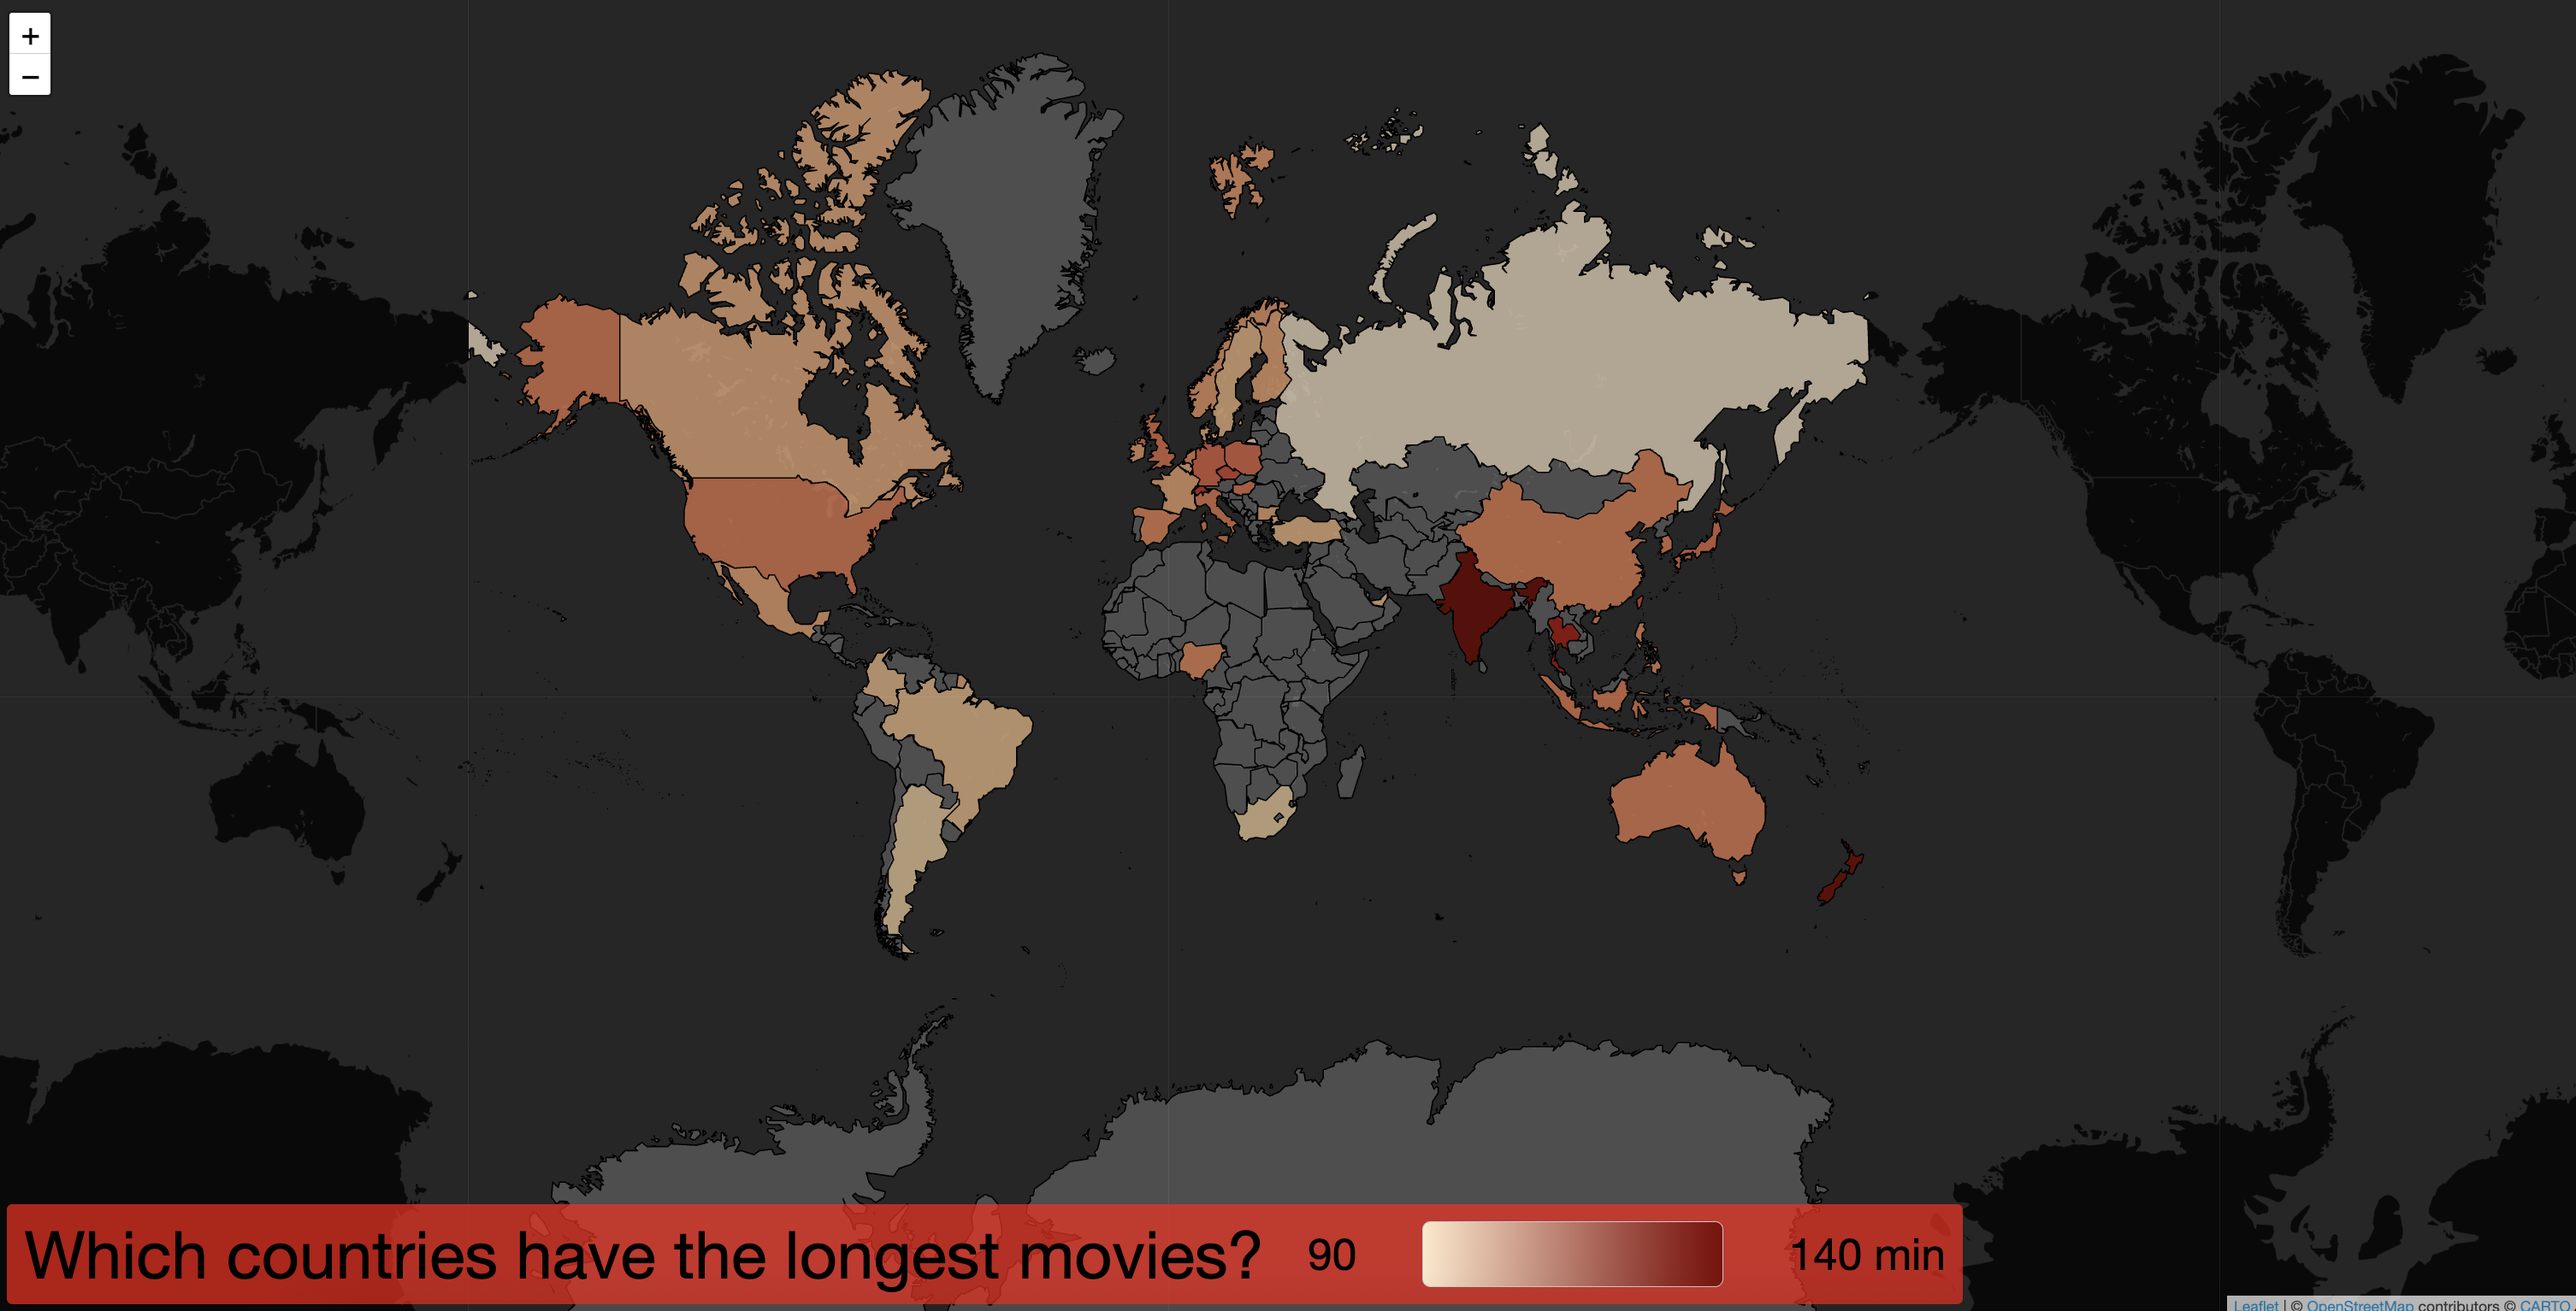
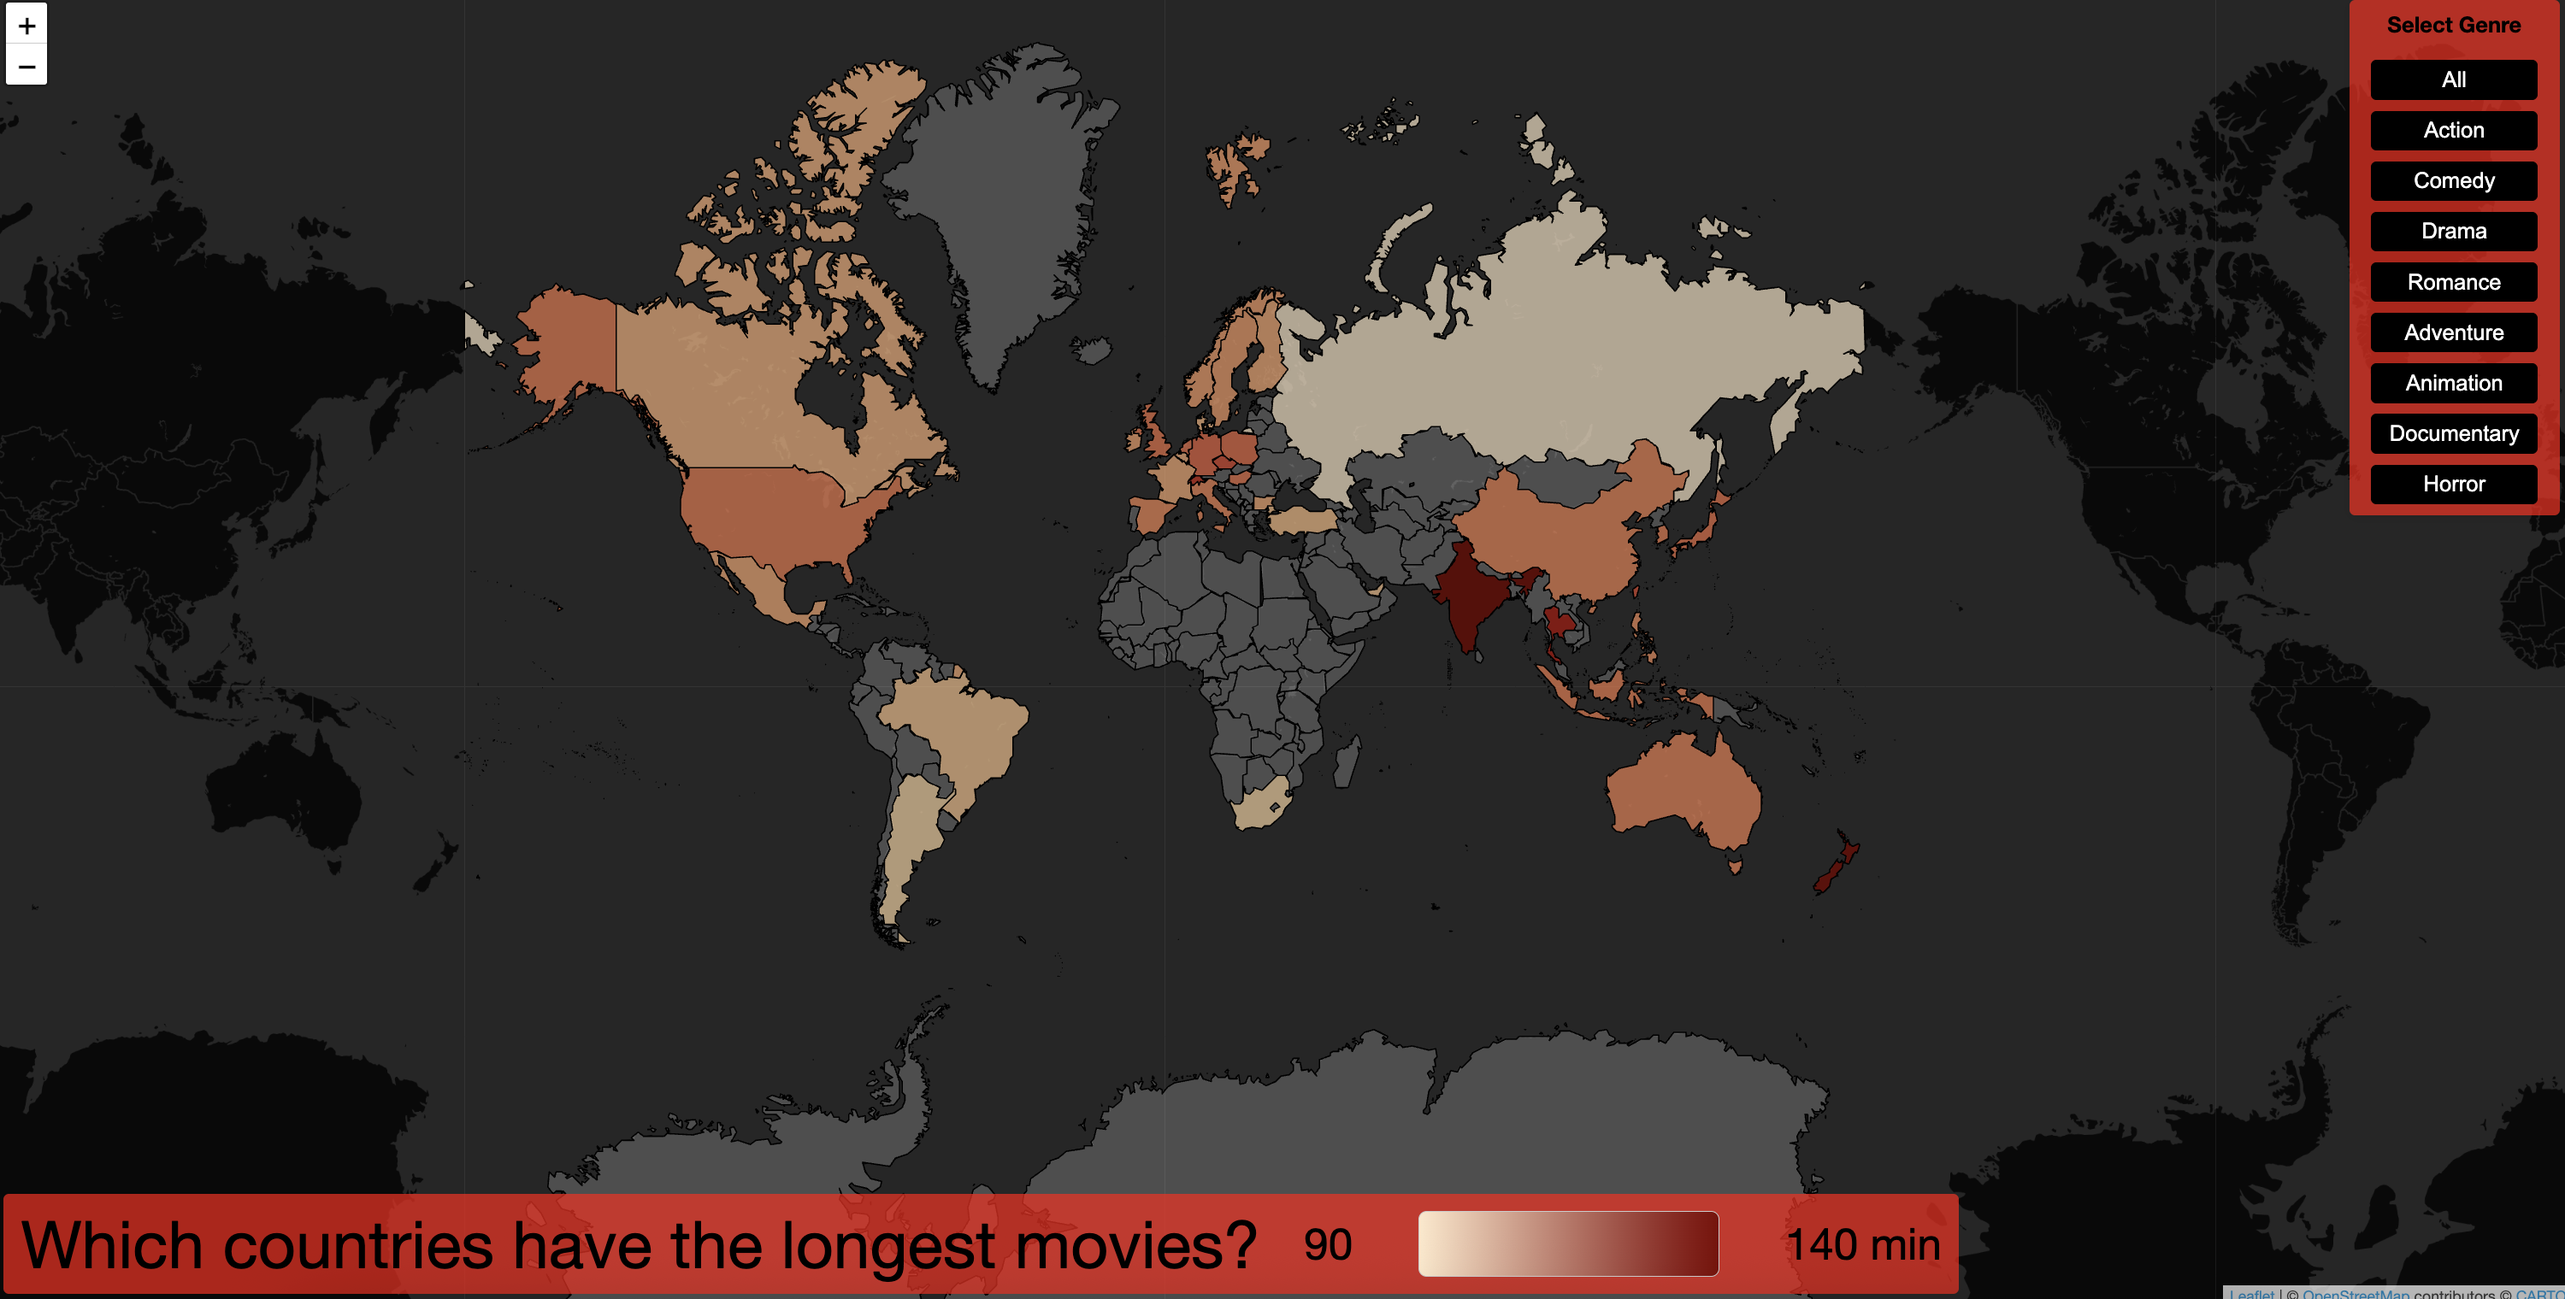
added genre functionality and updated readme

diff --git a/app_copy.js b/app_copy.js
@@ -8,10 +8,86 @@ const moviesData = await d3.csv('Data/NetflixMovies_production_cleaned.csv')
 
 console.log(`Loaded ${moviesData.length} movies`)
 
+// --- Genre Filter UI ---
+const GENRES = [
+    "All", "Action", "Comedy", "Drama", "Romance",
+    "Adventure", "Animation", "Documentary", "Horror"
+]
+let selectedGenres = new Set(GENRES.slice(1)) // All except "All" by default
+
+function createGenreFilters() {
+    let container = document.getElementById('genre-filters')
+    if (!container) {
+        container = document.createElement('div')
+        container.id = 'genre-filters'
+        container.style.position = 'absolute'
+        container.style.top = '10px'
+        container.style.right = '10px'
+        container.style.zIndex = 1100
+        container.style.background = 'rgba(255, 1, 1, 0.718)'
+        container.style.padding = '0.5em 1em'
+        container.style.borderRadius = '4px'
+        container.style.boxShadow = '0 2px 8px rgba(0,0,0,0.08)'
+        container.style.display = 'flex'
+        container.style.flexDirection = 'column'
+        container.style.gap = '0.5em'
+        document.body.appendChild(container)
+    }
+    container.innerHTML = `
+        <div class="genre-label">Select Genre</div>
+        ${GENRES.map(genre =>
+            `<button class="genre-btn${selectedGenres.has(genre) || (genre === "All" && selectedGenres.size === 8) ? ' active' : ''}" data-genre="${genre}">${genre}</button>`
+        ).join('')}
+    `
+    // Button click handler
+    container.querySelectorAll('.genre-btn').forEach(btn => {
+        btn.onclick = function() {
+            const genre = btn.getAttribute('data-genre')
+            if (genre === "All") {
+                selectedGenres = new Set(GENRES.slice(1))
+            } else {
+                selectedGenres = new Set([genre])
+            }
+            createGenreFilters() // update button states
+            renderMap()
+        }
+    })
+}
+
+// Add CSS for active/inactive genre buttons
+if (!document.getElementById('genre-btn-style')) {
+    const style = document.createElement('style')
+    style.id = 'genre-btn-style'
+    style.innerHTML = `
+        #genre-filters .genre-btn {
+            border: 1px solid #aaa;
+            background: #f7f7f7;
+            color: #333;
+            border-radius: 4px;
+            padding: 0.3em 0.8em;
+            font-size: 1em;
+            cursor: pointer;
+            transition: background 0.15s, color 0.15s;
+        }
+        #genre-filters .genre-btn.active {
+            background: #000;
+            color: #fff;
+            border-color: #000;
+        }
+    `
+    document.head.appendChild(style)
+}
+
+createGenreFilters()
+
 // Group movies by country and compute mean RuntimeMinutes
 function groupByCountryFromCSV(data) {
     const map = new Map()
     data.forEach(item => {
+        // Filter by selected genres
+        const genres = (item.genres || '').split(',').map(g => g.trim())
+        if (!genres.some(g => selectedGenres.has(g))) return
+
         let countries = []
         try {
             const arr = JSON.parse(item.productionCountries.replace(/'/g, '"'))
@@ -25,7 +101,7 @@ function groupByCountryFromCSV(data) {
         countries.forEach(country => {
             if (!map.has(country)) map.set(country, [])
             map.get(country).push({
-                title: item.searched || item.Title || item.name, // Use "searched" column
+                title: item.searched || item.Title || item.name,
                 runtime: Number(item.RuntimeMinutes) || 0
             })
         })

diff --git a/index.html b/index.html
@@ -79,6 +79,11 @@
         font-size: 0.5rem;
         color: #333;
       }
+      #genre-filters .genre-label {
+        font-weight: bold;
+        margin-bottom: 0.5em;
+        text-align: center;
+      }
     </style>
   </head>
   <body>

diff --git a/info/README.md b/info/README.md
@@ -1,2 +1,11 @@
-# DataVisualizations_and_InformationAesthetics
-Prototypes and projects for Parsons Data Visualization and Info Aesthetics, Fall 2025
+# Exercise 4: Netflix Geographic (or, NetGeo)
+
+My previous Netflix visualizations involved graphing total Views against runtime to see genre level distributions of movie length. Was there a most popular runtime, and if so how long was it?
+
+![hero_image]()
+
+Adding a geographical element to this data changes the question from "what is the most popular runtime" to "which countries produce the longest movies?" Mean Movie Length in minutes is mapped to each country wth the colorscale from light orange to deep red. As some countries have many more movies than others on Netflix, Mean Movie Length may be skewed in some cases. 
+
+Filtering by genre reveals genre-specific trends (and which countries are over-represented in specific genres). I tried to include mean Views for movies from each country, but mapping layers have few axes on which to map data. Below is an attempt.
+
+![wow look at those country borders]()
